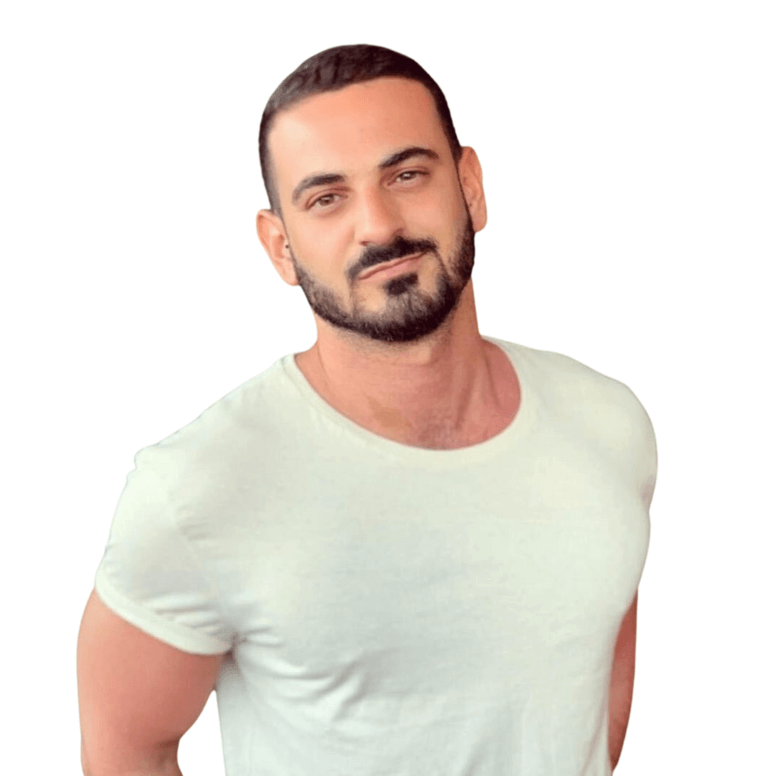
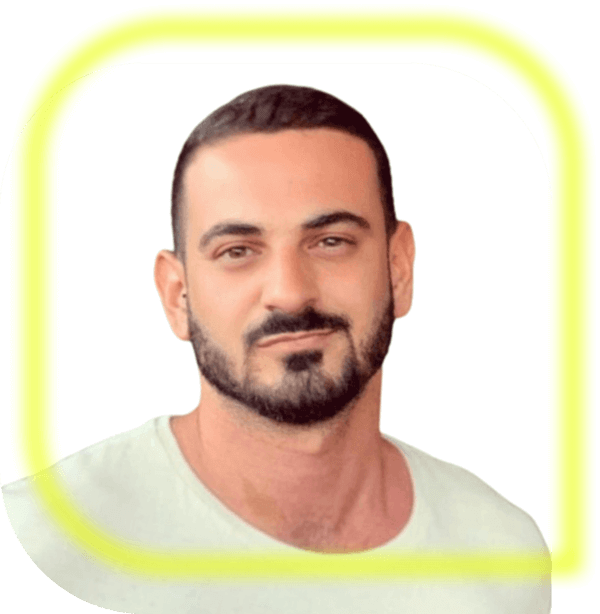
testimonial images, psrp header and bottom block img

diff --git a/src/app/tratamientos/psrp.tsx b/src/app/tratamientos/psrp.tsx
@@ -18,6 +18,7 @@ import { Text, Title, Underlined } from 'designSystem/Texts/Texts';
 import { SvgSpinner } from 'icons/Icons';
 import { SvgFilters } from 'icons/IconsDs';
 import { isEmpty } from 'lodash';
+import Image from 'next/image';
 
 import DesktopFilters from './components/DesktopFilters';
 import LookingFor from './components/LookingFor';
@@ -108,16 +109,23 @@ export default function PsrpPage({ slug }: { slug: string }) {
       <link rel="canonical" href="https://holaglow.com/tratamientos/" />
       <MobileFilters isVisible={isMobileFiltersVisible} />
 
-      <div className="bg-[#F3EDE9] rounded-t-3xl pt-8 pb-4 lg:bg-[url('/images/products/productsBg.png')] bg-right-top bg-no-repeat bg-contain">
-        <Container>
+      <div className="bg-[#F3EDE9] rounded-t-3xl">
+        <Container className="relative pt-8 pb-4">
           <Title size="3xl" className="font-bold mb-6 lg:mb-12 lg:w-3/5">
             Nuestros{' '}
             <Underlined color={HOLAGLOW_COLORS['secondary700']}>
               tratamientos
             </Underlined>
           </Title>
+          <Image
+            src={'/images/products/productsBg.png'}
+            height={858}
+            width={1395}
+            alt="nuestros tratamientos"
+            className="hidden lg:block absolute right-[5%] top-[10%] h-full w-auto scale-[160%]"
+          />
         </Container>
-        <Container className="px-0 md:px-4 lg:pb-4">
+        <Container className="px-0 md:px-4 pb-4 relative">
           <div className="lg:flex lg:flex-row lg:justify-between">
             <CategorySelector className="mb-4 lg:mb-0" />
             <PackTypeFilter className="ml-4 md:ml-0" />
@@ -134,7 +142,7 @@ export default function PsrpPage({ slug }: { slug: string }) {
         </Flex>
       )}
       {!isEmpty(filteredProducts) && (
-        <div className="bg-[#f7f3f0] pb-32">
+        <div className="bg-[#f7f3f0] pb-32 relative">
           <Flex
             layout="row-left"
             className="justify-between py-8 md:py-0 md:mt-8 md:absolute w-full"
@@ -208,7 +216,7 @@ export default function PsrpPage({ slug }: { slug: string }) {
 
           <Container>
             <ul
-              className={`transition-all grid grid-cols-1 sm:grid-cols-2 md:grid-cols-3 lg:grid-cols-4 flex-col gap-6  ${
+              className={`transition-all grid grid-cols-1 sm:grid-cols-2 md:grid-cols-3 lg:grid-cols-4 flex-col gap-6 ${
                 showDesktopFilters === true.toString() ? 'md:pt-12' : 'md:pt-24'
               }   pb-6`}
             >

diff --git a/src/app/components/home/Testimonials.tsx b/src/app/components/home/Testimonials.tsx
@@ -18,37 +18,37 @@ const TESTIMONIALS: Testimonial[] = [
     name: 'BELEN HEVIA',
     testimonial:
       'Encantada de la experiencia, el doctor va explicando a cada momento lo que va haciendo y el personal súper amable . 100% recomendable 👌',
-    imgUrl: '/images/testimonials/belenHevia.jpg',
+    imgUrl: '/images/testimonials/belenHevia.png',
   },
   {
     name: 'MARIA JOSÉ ZAMORA',
     testimonial:
       'Perfecta experiencia en Holaglow! Equipo de súper profesionales, que te asesoran y acompañan durante el tratamiento',
-    imgUrl: '/images/testimonials/mariaJoseZamora.jpg',
+    imgUrl: '/images/testimonials/mariaJoseZamora.png',
   },
   {
     name: 'MARIA QUILEZ',
     testimonial:
       'Estoy super contenta con el resultado. El equipo médico me ha asesorado muy bien y me he sentido muy cómoda en todo momento. El escáner es una pasada!!!!',
-    imgUrl: '/images/testimonials/mariaQuilez.jpg',
+    imgUrl: '/images/testimonials/mariaQuilez.png',
   },
   {
     name: 'LUNA SANTIAGO',
     testimonial:
       'Me he hecho los labios y ha sido increíble!!! Sin duda el mejor lugar en el que poder confiarse. Un trato maravilloso hacia los clientes, os lo recomiendo!!',
-    imgUrl: '/images/testimonials/lunaSantiago.jpg',
+    imgUrl: '/images/testimonials/lunaSantiago.png',
   },
   {
     name: 'ANNA ASIÁN',
     testimonial:
       'He visitado la clínica y son súper amables y profesionales, antes del tratamiento puedes ver el resultado de forma virtual en un simulador. Decidí hacerme un tratamiento de botox en la frente, entrecejo y patas de gallo. Encantada con mi nueva imagen,mejorada y muy natural.',
-    imgUrl: '/images/testimonials/annaAsian.jpg',
+    imgUrl: '/images/testimonials/annaAsian.png',
   },
   {
     name: 'MONTSE MELERO',
     testimonial:
       'Ha sido mi primera vez y no puedo estar más contenta. El personal es encantador, me he sentido acompañada en todo momento y los resultados increíbles, ya se lo he recomendado a mis amigas, ¡Repetiré seguro!',
-    imgUrl: '/images/testimonials/montseMelero.jpg',
+    imgUrl: '/images/testimonials/montseMelero.png',
   },
   {
     name: 'ALBERTO SANTAMARIA',

diff --git a/src/app/tratamientos/components/LookingFor.tsx b/src/app/tratamientos/components/LookingFor.tsx
@@ -6,7 +6,7 @@ import { SvgPhone, SvgWhatsapp } from 'icons/IconsDs';
 
 export default function LookingFor() {
   return (
-    <div className="bg-[url('/images/products/lookingForBg.png')] md:bg-[url('/images/products/lookingForBg-desktop.png')] bg-[#e3e2f9] bg-no-repeat bg-[75%_100%] md:bg-bottom bg-contain pt-12 pb-[600px] md:py-36">
+    <div className="bg-[url('/images/products/lookingForBg.png')] md:bg-[url('/images/products/lookingForBg-desktop.png')] bg-bottom bg-cover pt-16 pb-[650px] md:py-32">
       <Container>
         <Flex layout="col-center" className="md:items-start md:w-2/5">
           <Title
